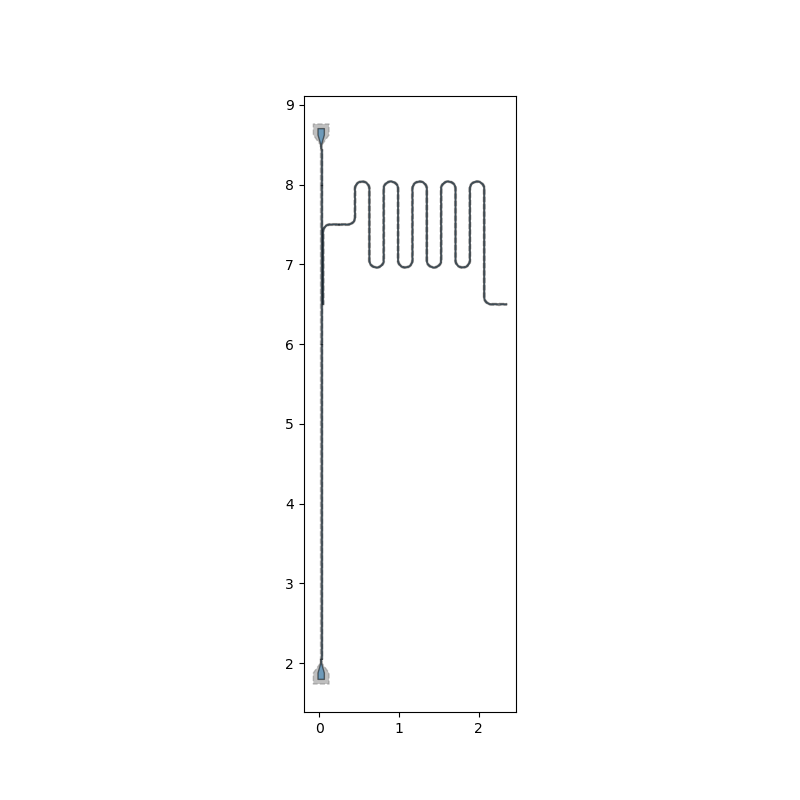
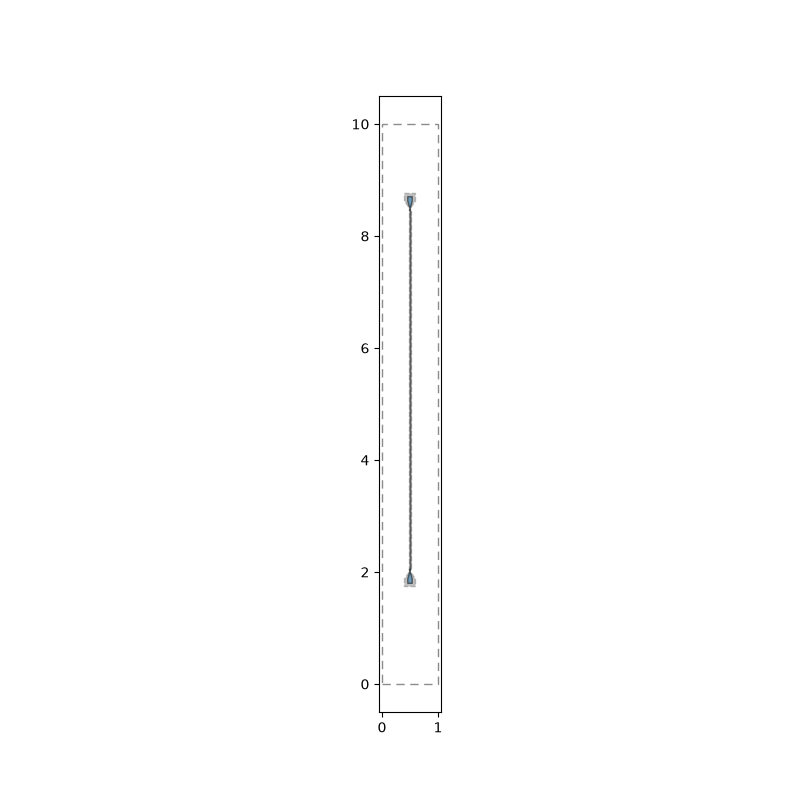
Fixed installation errors in tune_resonator branch

Changed region(s): [[0.4375, 0.2188, 0.625, 0.75], [0.375, 0.1562, 0.4062, 0.875]]

diff --git a/src/metal_flow/.ipynb_checkpoints/__init__-checkpoint.py b/src/metal_flow/.ipynb_checkpoints/__init__-checkpoint.py
@@ -1,0 +1,5 @@
+from .design import FOUR_QUBIT_DESIGN_DICT
+from .functions import create_design
+from .impedance import Sweeper_SYZ
+from .capcitive import Capacitence_Sweeper
+from .autotune import *
